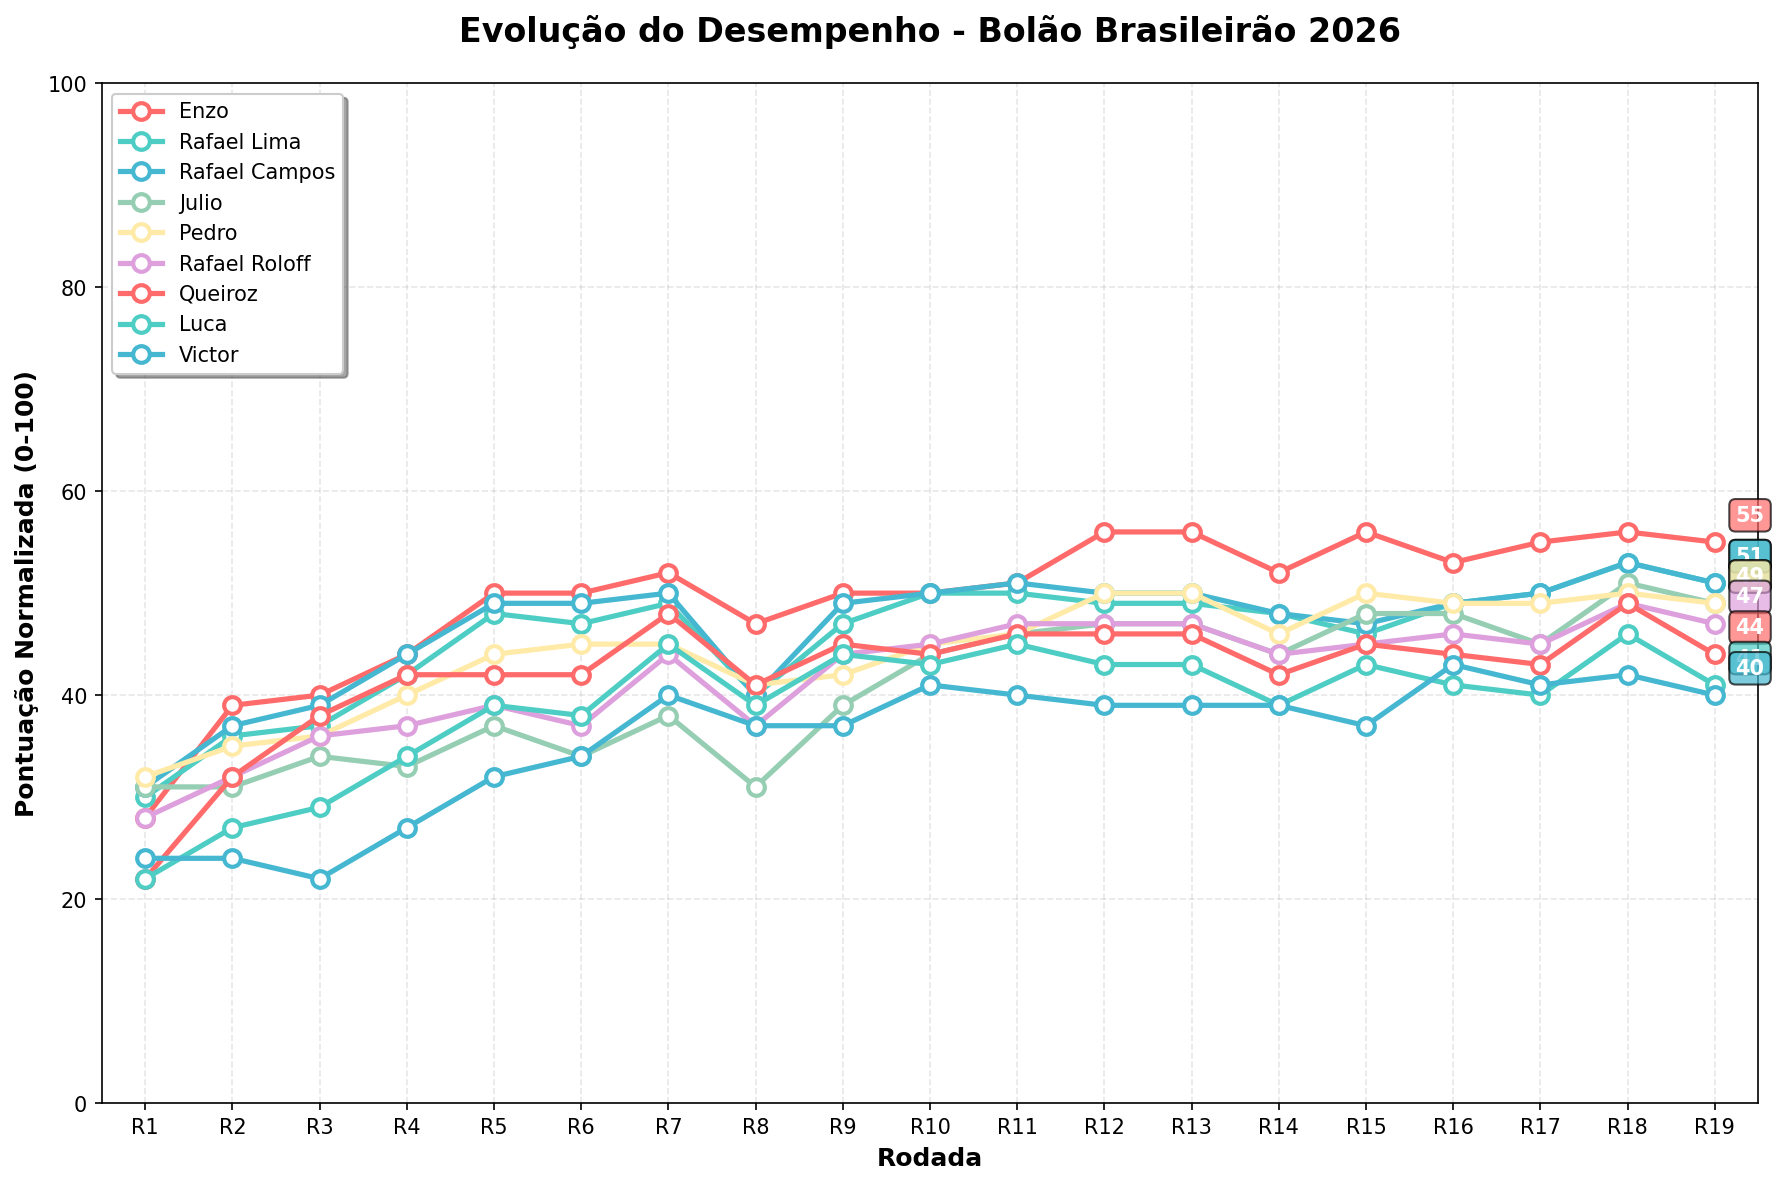
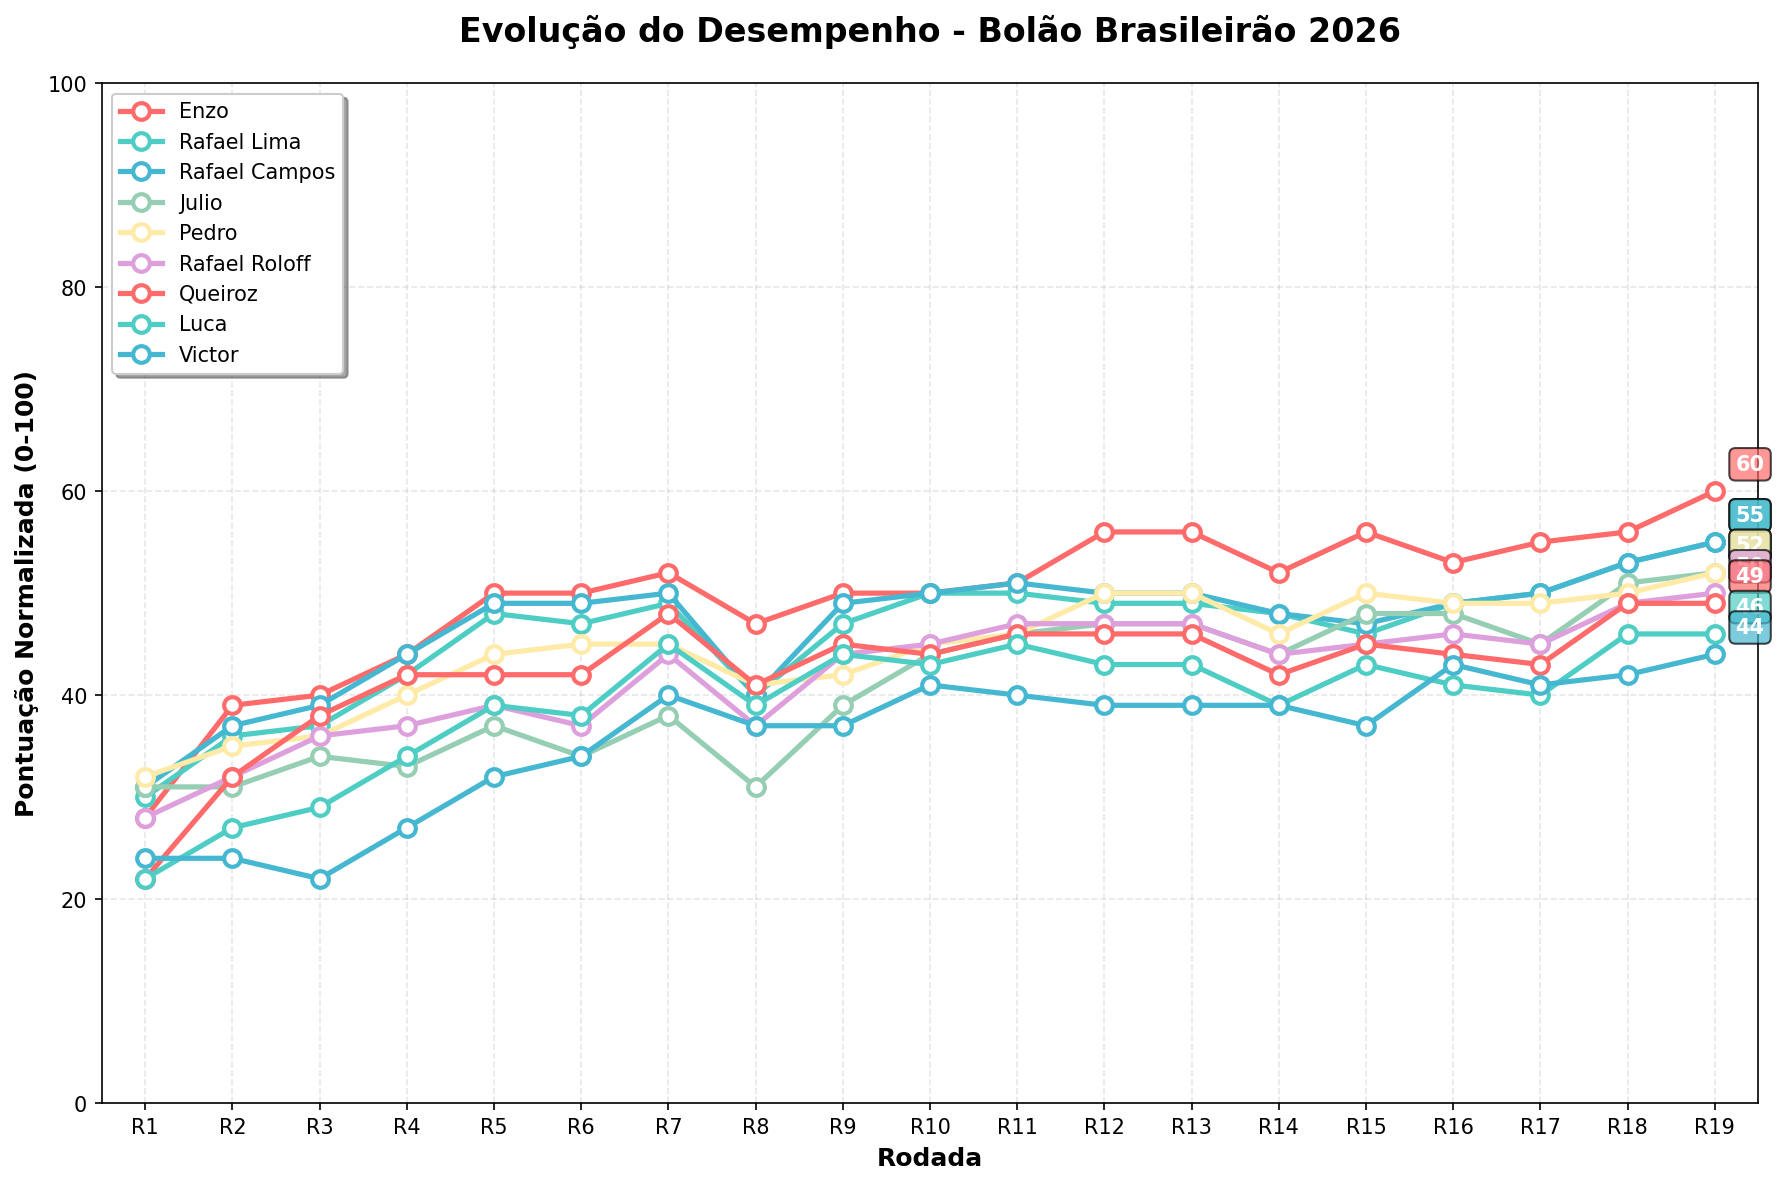
Atualizacao automatica - 23/07/2026 11:00:04,22

Changed region(s): [[0.8966, 0.3747, 1.0, 0.5932]]

diff --git a/README.md b/README.md
@@ -2,23 +2,23 @@
 
 ## 🏆 Resultados Atuais
 
-**Última Atualização:** 2026-07-21 11:00:04
+**Última Atualização:** 2026-07-23 11:00:03
 
 | Time | Real | Enzo | Rafael Lima | Rafael Campos | Julio | Pedro | Rafael Roloff | Queiroz | Luca | Victor |
 |------|------|------|------|------|------|------|------|------|------|------|
 | Palmeiras | 1 | 2°(19p) | 3°(18p) | 3°(18p) | 2°(19p) | 3°(18p) | 2°(19p) | 3°(18p) | 3°(18p) | 3°(18p) |
 | Flamengo | 2 | 1°(19p) | 1°(19p) | 1°(19p) | 1°(19p) | 2°(20p) | 1°(19p) | 1°(19p) | 1°(19p) | 1°(19p) |
-| Fluminense | 3 | 4°(19p) | 6°(17p) | 7°(16p) | 7°(16p) | 4°(19p) | 8°(15p) | 7°(16p) | 8°(15p) | 10°(13p) |
-| Bragantino | 4 | 6°(18p) | 10°(14p) | 10°(14p) | 10°(14p) | 9°(15p) | 13°(11p) | 18°(6p) | 13°(11p) | 15°(9p) |
-| Atlético-PR | 5 | 17°(8p) | 17°(8p) | 17°(8p) | 17°(8p) | 18°(7p) | 17°(8p) | 15°(10p) | 17°(8p) | 13°(12p) |
+| Atlético-PR | 3 | 17°(6p) | 17°(6p) | 17°(6p) | 17°(6p) | 18°(5p) | 17°(6p) | 15°(8p) | 17°(6p) | 13°(10p) |
+| Fluminense | 4 | 4°(20p) | 6°(18p) | 7°(17p) | 7°(17p) | 4°(20p) | 8°(16p) | 7°(17p) | 8°(16p) | 10°(14p) |
+| Bragantino | 5 | 6°(19p) | 10°(15p) | 10°(15p) | 10°(15p) | 9°(16p) | 13°(12p) | 18°(7p) | 13°(12p) | 15°(10p) |
 | Bahia | 6 | 5°(19p) | 4°(18p) | 4°(18p) | 5°(19p) | 7°(19p) | 6°(20p) | 4°(18p) | 5°(19p) | 9°(17p) |
-| Coritiba | 7 | 15°(12p) | 16°(11p) | 16°(11p) | 19°(8p) | 19°(8p) | 14°(13p) | 12°(15p) | 20°(7p) | 20°(7p) |
-| São Paulo | 8 | 16°(12p) | 14°(14p) | 12°(16p) | 15°(13p) | 15°(13p) | 16°(12p) | 17°(11p) | 14°(14p) | 16°(12p) |
-| Botafogo | 9 | 10°(19p) | 8°(19p) | 9°(20p) | 6°(17p) | 5°(16p) | 7°(18p) | 11°(18p) | 11°(18p) | 5°(16p) |
-| Vitória | 10 | 18°(12p) | 18°(12p) | 18°(12p) | 16°(14p) | 17°(13p) | 18°(12p) | 19°(11p) | 18°(12p) | 17°(13p) |
+| Cruzeiro | 7 | 3°(16p) | 2°(15p) | 2°(15p) | 3°(16p) | 1°(14p) | 3°(16p) | 2°(15p) | 2°(15p) | 7°(20p) |
+| Coritiba | 8 | 15°(13p) | 16°(12p) | 16°(12p) | 19°(9p) | 19°(9p) | 14°(14p) | 12°(16p) | 20°(8p) | 20°(8p) |
+| São Paulo | 9 | 16°(13p) | 14°(15p) | 12°(17p) | 15°(14p) | 15°(14p) | 16°(13p) | 17°(12p) | 14°(15p) | 16°(13p) |
+| Botafogo | 10 | 10°(20p) | 8°(18p) | 9°(19p) | 6°(16p) | 5°(15p) | 7°(17p) | 11°(19p) | 11°(19p) | 5°(15p) |
 | Atlético-MG | 11 | 12°(19p) | 5°(14p) | 5°(14p) | 4°(13p) | 13°(18p) | 4°(13p) | 9°(18p) | 4°(13p) | 2°(11p) |
-| Corinthians | 12 | 8°(16p) | 9°(17p) | 8°(16p) | 9°(17p) | 8°(16p) | 5°(13p) | 6°(14p) | 10°(18p) | 8°(16p) |
-| Cruzeiro | 13 | 3°(10p) | 2°(9p) | 2°(9p) | 3°(10p) | 1°(8p) | 3°(10p) | 2°(9p) | 2°(9p) | 7°(14p) |
+| Vitória | 12 | 18°(14p) | 18°(14p) | 18°(14p) | 16°(16p) | 17°(15p) | 18°(14p) | 19°(13p) | 18°(14p) | 17°(15p) |
+| Corinthians | 13 | 8°(15p) | 9°(16p) | 8°(15p) | 9°(16p) | 8°(15p) | 5°(12p) | 6°(13p) | 10°(17p) | 8°(15p) |
 | Internacional | 14 | 14°(20p) | 13°(19p) | 15°(19p) | 14°(20p) | 14°(20p) | 15°(19p) | 14°(20p) | 15°(19p) | 6°(12p) |
 | Santos | 15 | 11°(16p) | 12°(17p) | 13°(18p) | 12°(17p) | 11°(16p) | 9°(14p) | 13°(18p) | 7°(12p) | 11°(16p) |
 | Grêmio | 16 | 7°(11p) | 7°(11p) | 6°(10p) | 18°(18p) | 6°(10p) | 12°(16p) | 5°(9p) | 6°(10p) | 4°(8p) |
@@ -26,19 +26,19 @@
 | Mirassol | 18 | 13°(15p) | 11°(13p) | 11°(13p) | 8°(10p) | 12°(14p) | 10°(12p) | 8°(10p) | 12°(14p) | 14°(16p) |
 | Remo | 19 | 20°(19p) | 20°(19p) | 20°(19p) | 13°(14p) | 16°(17p) | 20°(19p) | 16°(17p) | 16°(17p) | 19°(20p) |
 | Chapecoense | 20 | 19°(19p) | 19°(19p) | 19°(19p) | 20°(20p) | 20°(20p) | 19°(19p) | 20°(20p) | 19°(19p) | 18°(18p) |
-| **TOTAL** | | **314** | **306** | **306** | **300** | **300** | **296** | **290** | **284** | **282** |
+| **TOTAL** | | **324** | **314** | **314** | **308** | **308** | **304** | **300** | **294** | **290** |
 
 ### 🏅 Classificação Atual (pontuação normalizada 0-100)
 
-🥇 **Enzo**: 55 pontos<br>
-🥈 **Rafael Lima**: 51 pontos<br>
-🥉 **Rafael Campos**: 51 pontos<br>
-4. **Julio**: 49 pontos<br>
-5. **Pedro**: 49 pontos<br>
-6. **Rafael Roloff**: 47 pontos<br>
-7. **Queiroz**: 44 pontos<br>
-8. **Luca**: 41 pontos<br>
-9. **Victor**: 40 pontos<br>
+🥇 **Enzo**: 60 pontos<br>
+🥈 **Rafael Lima**: 55 pontos<br>
+🥉 **Rafael Campos**: 55 pontos<br>
+4. **Julio**: 52 pontos<br>
+5. **Pedro**: 52 pontos<br>
+6. **Rafael Roloff**: 50 pontos<br>
+7. **Queiroz**: 49 pontos<br>
+8. **Luca**: 46 pontos<br>
+9. **Victor**: 44 pontos<br>
 
 ### 📈 Histórico de Desempenho
 
@@ -55,18 +55,18 @@
 | R16 | 53 | 49 | 49 | 48 | 49 | 46 | 44 | 41 | 43 |
 | R17 | 55 | 50 | 50 | 45 | 49 | 45 | 43 | 40 | 41 |
 | R18 | 56 | 53 | 53 | 51 | 50 | 49 | 49 | 46 | 42 |
-| R19 | 55 | 51 | 51 | 49 | 49 | 47 | 44 | 41 | 40 |
+| R19 | 60 | 55 | 55 | 52 | 52 | 50 | 49 | 46 | 44 |
 
 **Tendência (últimas 2 medições):**
-- **Enzo**: 📉 -1
-- **Rafael Lima**: 📉 -2
-- **Rafael Campos**: 📉 -2
-- **Julio**: 📉 -2
-- **Pedro**: 📉 -1
-- **Rafael Roloff**: 📉 -2
-- **Queiroz**: 📉 -5
-- **Luca**: 📉 -5
-- **Victor**: 📉 -2
+- **Enzo**: 📈 +4
+- **Rafael Lima**: 📈 +2
+- **Rafael Campos**: 📈 +2
+- **Julio**: 📈 +1
+- **Pedro**: 📈 +2
+- **Rafael Roloff**: 📈 +1
+- **Queiroz**: ➡ =0
+- **Luca**: ➡ =0
+- **Victor**: 📈 +2
 
 ## 🎯 Sistema de Pontuação
 
